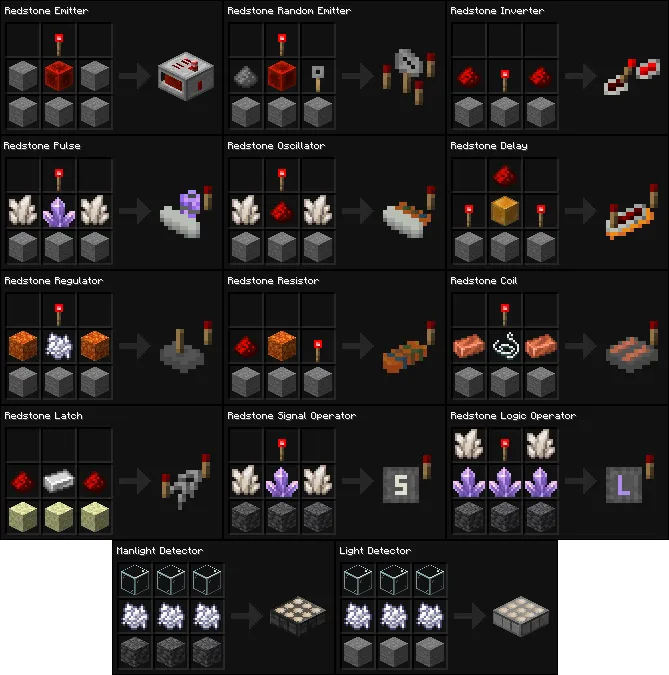
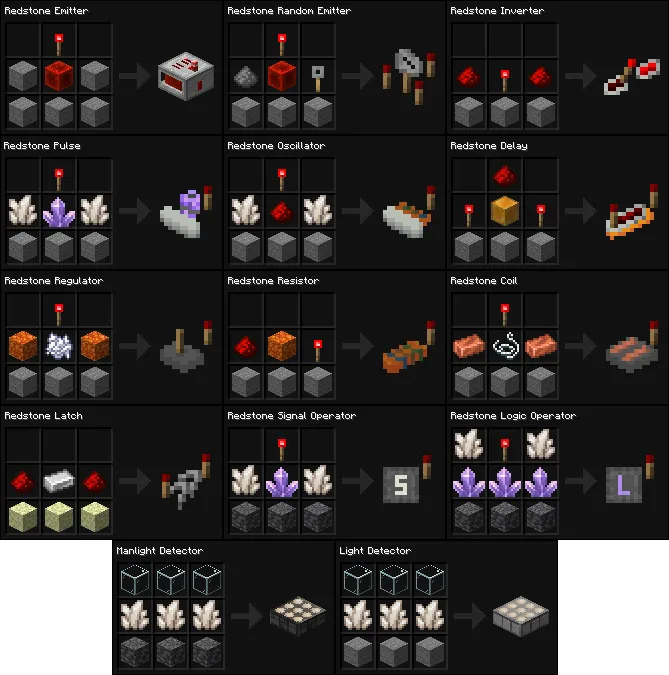
updated to 1.0.5 +fixed recipes image

Changed region(s): [[0.5082, 0.8711, 0.6876, 0.9333], [0.1794, 0.8711, 0.3288, 0.9333]]

diff --git a/CHANGELOG.md b/CHANGELOG.md
@@ -1,4 +1,28 @@
+## Redstone++ v1.0.4-beta
+
++ Fixed some recipes typo on an ID
++ Moved recipe book entries to _'redstone'_ section
+
 ## Redstone++ v1.0.3-beta
+
++ Recipe book entries for all existent recipes
+
+## Redstone++ v1.0.3-beta (First published version)
+
++ Added 1.21.11 version
++ Dropped 1.21.9 due fabric missing features there
++ Block: Redstone Latch _(w recipe and EN_US localization)_
+
+## Redstone++ v1.0.2-beta
+
++ Changed emitter recipe
+
+## Redstone++ v1.0.1-beta
+
++ Mod icon
++ Block: Redstone Latch _(w recipe and EN_US localization)_
+
+## Redstone++ v1.0.0-beta
 
 + Block: Redstone Emitter
 + Block: Redstone Random Emitter
@@ -11,7 +35,6 @@
 + Block: Redstone Coil
 + Block: Redstone Signal Operator
 + Block: Redstone Logic Operator
-+ Block: Redstone Latch
 + Block: Manlight Detector
 + Block: Light Detector
 + Recipes for all new blocks

diff --git a/README.md b/README.md
@@ -1,5 +1,5 @@
 ## Description
-Few components to extend redstone in a way that fits the mood and feel of the Vanilla experience, also preserving the "circuit" style redstoning, no automatic machines that do everything in one block in a cheap-ish way
+A 'redstone debugger overlay' and a few components to extend redstone in a way that fits the mood and feel of the Vanilla experience, also preserving the "circuit" style redstoning, no automatic machines that do everything in one block in a cheap-ish way
 
 <p align="center">
 <br>
